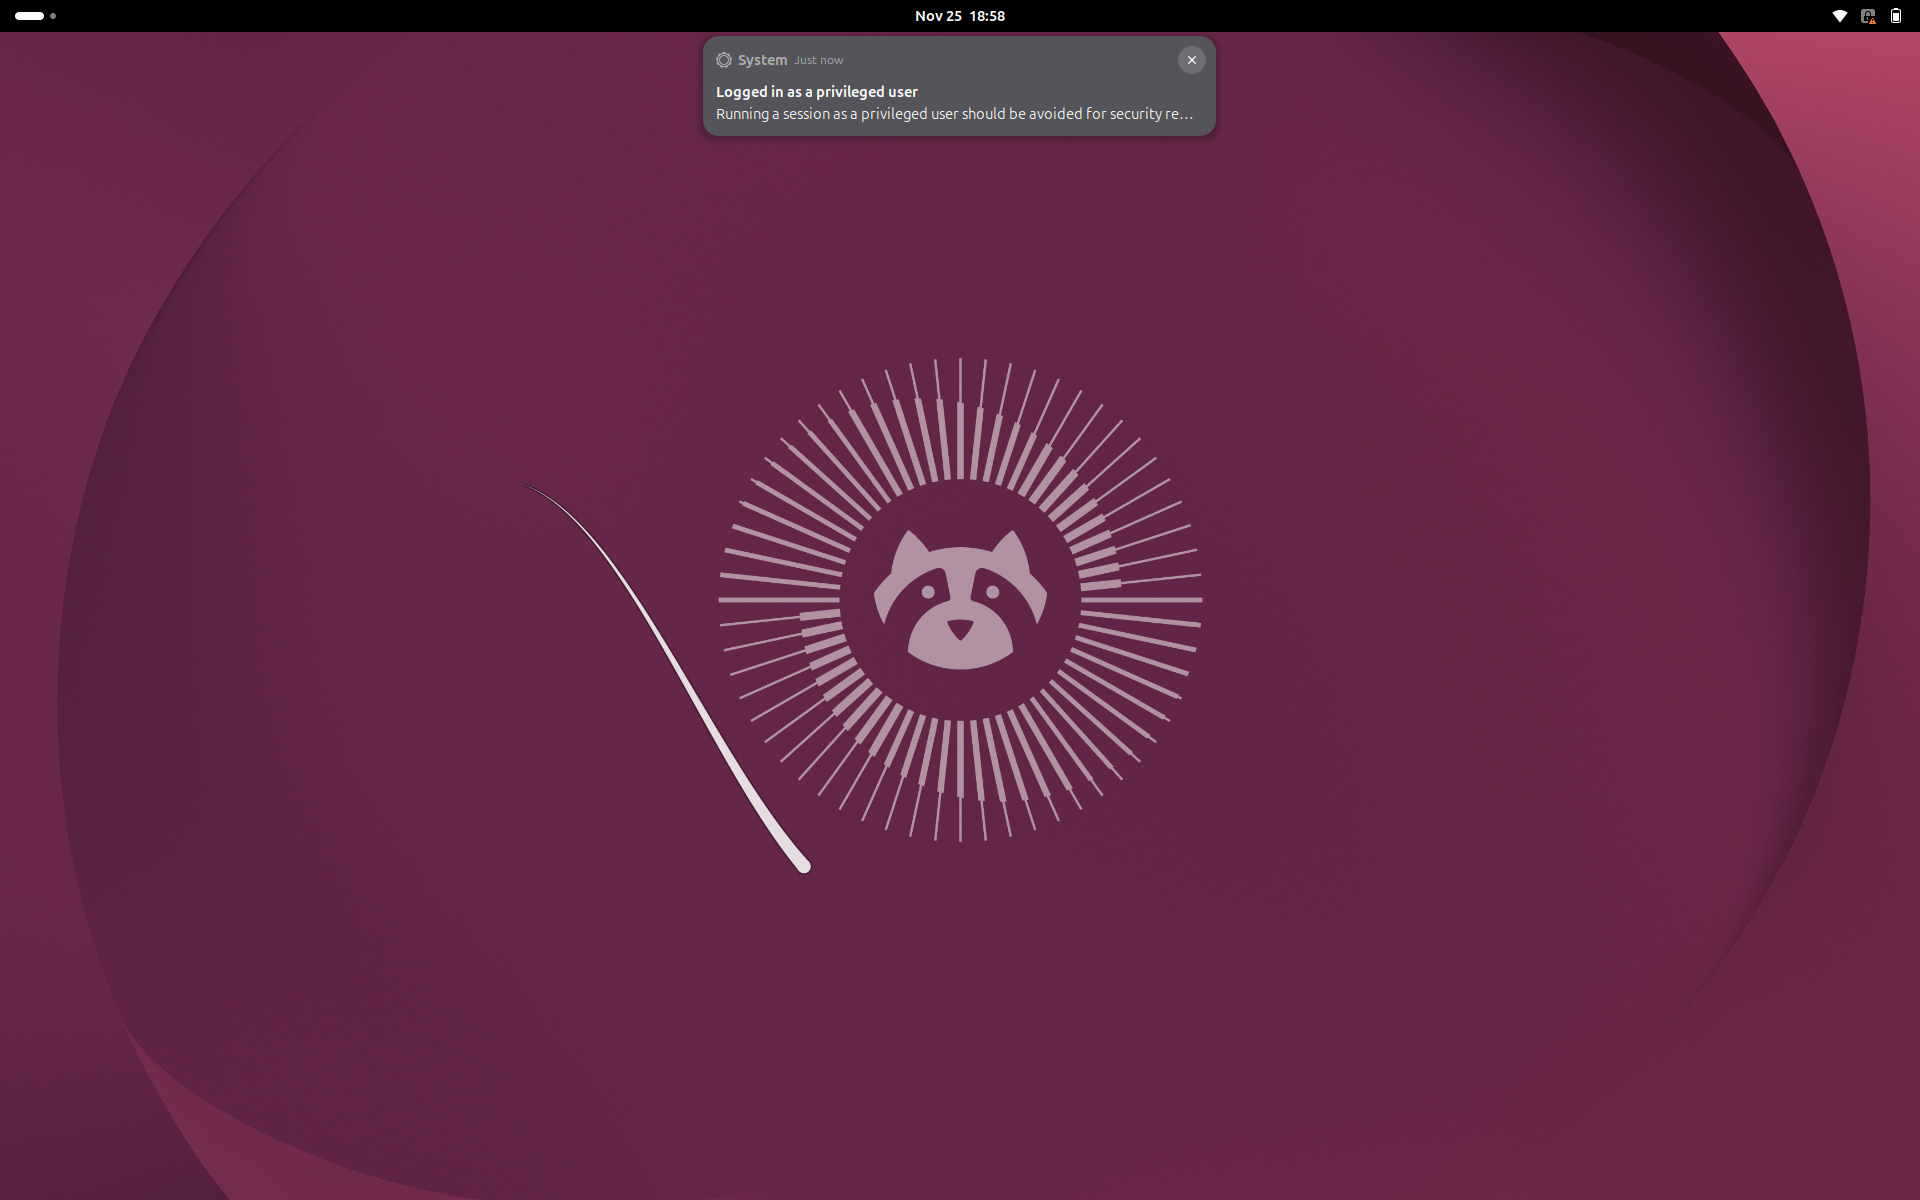
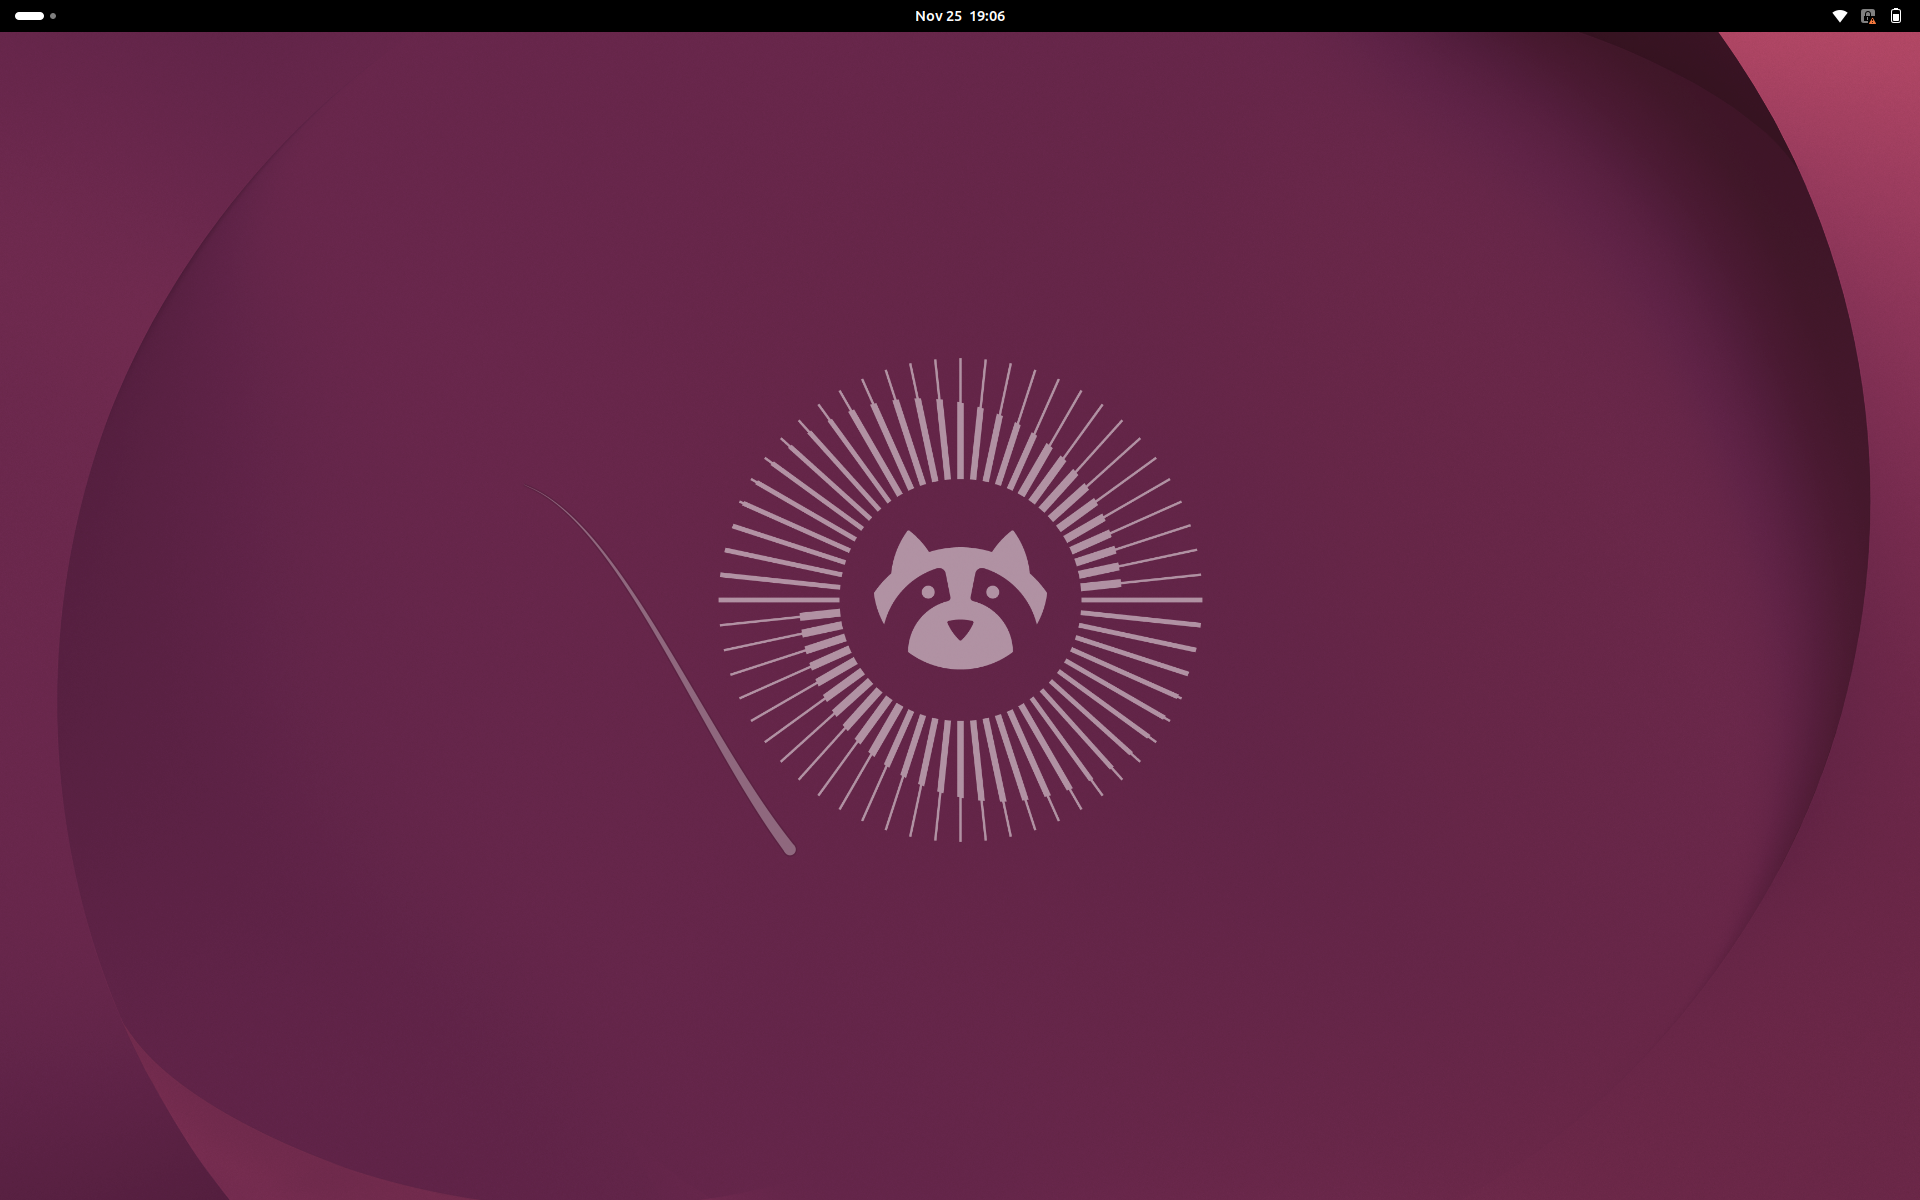
Fix keyboard dropping while dragging, strict bezel zones, softer brush
- Drag/resize no longer grabs the stage (it stole app focus so GNOME hid the
  OSK); closing is also blocked while dragging.
- get_point_begin_coords() returns garbage from GJS, so bezel zones now use
  the recorded touch-begin point and require the swipe to start at the edge.
- OSK opens only from the bezel gesture, not on every text-field touch.
- Fainter brush trail; strokes whose sequence is taken by a gesture end
  on their own instead of sticking on screen.

Changed region(s): [[0.3438, 0.0, 0.6562, 0.1233], [0.375, 0.6167, 0.4375, 0.74], [0.3438, 0.555, 0.375, 0.6167]]

diff --git a/touch-feedback@yandi/edges.js b/touch-feedback@yandi/edges.js
@@ -2,6 +2,8 @@ import Clutter from 'gi://Clutter';
 import Shell from 'gi://Shell';
 import St from 'gi://St';
 import * as Main from 'resource:///org/gnome/shell/ui/main.js';
+import * as KeyboardUI from 'resource:///org/gnome/shell/ui/keyboard.js';
+import {InjectionManager} from 'resource:///org/gnome/shell/extensions/extension.js';
 
 import {EDGES} from './config.js';
 
@@ -20,7 +22,7 @@ export class EdgeGestures {
         if (this._oskBottom)
             global.stage.remove_action(this._oskBottom);
 
-        // Catat titik awal sentuhan, cadangan kalau gesture nggak kasih koordinat awal.
+        // Catat titik awal sentuhan buat nentuin zona swipe.
         this._beginId = global.stage.connect('captured-event', (_a, event) => {
             if (event.type() === Clutter.EventType.TOUCH_BEGIN)
                 this._lastBegin = event.get_coords();
@@ -37,16 +39,34 @@ export class EdgeGestures {
             const kb = Main.keyboard.keyboardActor;
             if (kb) {
                 Main.layoutManager.keyboardIndex = Main.layoutManager.bottomIndex;
+                kb._tfAllowOpen = true;
                 kb.gestureActivate();
+                kb._tfAllowOpen = false;
             }
         });
         osk.connect('cancel', () => Main.keyboard.keyboardActor?.gestureCancel());
 
         this._loadDock();
         this._forceOskReady();
+        this._onlyOpenByGesture();
+    }
+
+    // Keyboard cuma boleh muncul lewat swipe bezel, bukan otomatis tiap
+    // kolom teks disentuh.
+    _onlyOpenByGesture() {
+        if (!EDGES.oskOnlyByGesture)
+            return;
+        this._injections = new InjectionManager();
+        this._injections.overrideMethod(KeyboardUI.Keyboard.prototype, 'open', original => function (...args) {
+            if (!this._tfAllowOpen && !this._keyboardVisible)
+                return;
+            original.apply(this, args);
+        });
     }
 
     disable() {
+        this._injections?.clear();
+        this._injections = null;
         this._stopOutsideWatch();
         this._restoreOsk();
         if (this._beginId) {
@@ -68,6 +88,8 @@ export class EdgeGestures {
         g.connect('may-recognize', () => {
             if ((modes & Main.actionMode) === 0)
                 return false;
+            if (!this._nearBottom(g))
+                return false;
             return this._inCenter(g) === center;
         });
         global.stage.add_action(g);
@@ -75,20 +97,29 @@ export class EdgeGestures {
         return g;
     }
 
-    _beginX(g) {
-        try {
-            const p = g.get_point_begin_coords(0);
-            const pt = Array.isArray(p) ? p.find(v => v && 'x' in v) : p;
-            if (pt && Number.isFinite(pt.x))
-                return pt.x;
-        } catch {}
-        return this._lastBegin?.[0] ?? null;
+    // Clutter.Gesture.get_point_begin_coords() ngasih angka ngaco dari GJS,
+    // jadi pakai titik awal sentuhan yang kita catat sendiri.
+    _begin(_g) {
+        return this._lastBegin ?? null;
+    }
+
+    _monitor() {
+        return Main.layoutManager.monitors[Main.layoutManager.bottomIndex] ??
+            Main.layoutManager.primaryMonitor;
+    }
+
+    // Sentuhan awal harus mepet tepi bawah layar.
+    _nearBottom(g) {
+        const b = this._begin(g);
+        const mon = this._monitor();
+        if (!b || !mon)
+            return true;
+        return b[1] >= mon.y + mon.height - EDGES.bottomEdge;
     }
 
     _inCenter(g) {
-        const x = this._beginX(g);
-        const mon = Main.layoutManager.monitors[Main.layoutManager.bottomIndex] ??
-            Main.layoutManager.primaryMonitor;
+        const x = this._begin(g)?.[0] ?? null;
+        const mon = this._monitor();
         if (x === null || !mon)
             return true;
         const rel = (x - mon.x) / mon.width;

diff --git a/touch-feedback@yandi/brush.js b/touch-feedback@yandi/brush.js
@@ -8,6 +8,9 @@ import * as Main from 'resource:///org/gnome/shell/ui/main.js';
 import {TAP, BRUSH, SOUND} from './config.js';
 
 const PAD = 4; // ruang ekstra di sekitar kuas
+// Kalau gesture GNOME (mis. swipe bezel) ngambil alih sentuhan, event lanjutan
+// & jari-diangkat nggak sampai ke kita. Sentuhan yang diam selama ini dianggap selesai.
+const STALE_MS = 400;
 
 // Satu goresan kuas: kanvas kecil seukuran goresan yang digambar ulang tiap frame.
 class Stroke {
@@ -23,7 +26,13 @@ class Stroke {
         this._timeline.start();
     }
 
+    get live() {
+        return this._live && !!this._area;
+    }
+
     add(x, y) {
+        if (!this._live || !this._area)
+            return;
         const now = GLib.get_monotonic_time() / 1000;
         const last = this._points.at(-1);
         if (last && Math.hypot(x - last.x, y - last.y) < 2) {
@@ -31,6 +40,10 @@ class Stroke {
             return;
         }
         this._points.push({x, y, t: now});
+    }
+
+    get lastUpdate() {
+        return this._points.at(-1)?.t ?? 0;
     }
 
     release() {
@@ -46,6 +59,8 @@ class Stroke {
 
     _tick() {
         const now = GLib.get_monotonic_time() / 1000;
+        if (this._live && now - this.lastUpdate > STALE_MS)
+            this._live = false;
         // Ekor: buang titik yang sudah lewat umurnya, sisakan yang terbaru kalau jari masih nempel.
         while (this._points.length > (this._live ? 1 : 0) && now - this._points[0].t > BRUSH.tail)
             this._points.shift();
@@ -170,9 +185,12 @@ export class TouchEffects {
     // Dipisah dari _onEvent biar bisa dites tanpa layar sentuh.
     handle(type, slot, x, y) {
         const T = Clutter.EventType;
+        const now = GLib.get_monotonic_time() / 1000;
         if (type === T.TOUCH_BEGIN) {
+            this._pruneStale(now);
             this._touches.get(slot)?.stroke?.release();
             this._touches.set(slot, {
+                last: now,
                 sx: x, sy: y, swipe: false, stroke: null,
                 onKeyboard: this._onKeyboard(x, y),
                 dot: this._spawnDot(x, y),
@@ -184,18 +202,25 @@ export class TouchEffects {
         if (!t)
             return;
 
+        t.last = now;
         if (type === T.TOUCH_UPDATE) {
             if (!t.swipe && Math.hypot(x - t.sx, y - t.sy) > TAP.swipeThreshold) {
                 t.swipe = true;
                 this._fadeOut(t.dot, 120);
                 t.dot = null;
-                if (!t.onKeyboard) {
-                    t.stroke = new Stroke(s => this._strokes?.delete(s));
-                    this._strokes.add(t.stroke);
-                    t.stroke.add(t.sx, t.sy);
-                }
             }
-            t.stroke?.add(x, y);
+            if (t.swipe && !t.onKeyboard) {
+                // Goresan baru kalau belum ada atau yang lama sudah selesai (jari sempat diam).
+                if (!t.stroke?.live) {
+                    const [px, py] = t.stroke ? [t.px, t.py] : [t.sx, t.sy];
+                    t.stroke = new Stroke(st => this._strokes?.delete(st));
+                    this._strokes.add(t.stroke);
+                    t.stroke.add(px, py);
+                }
+                t.stroke.add(x, y);
+            }
+            t.px = x;
+            t.py = y;
             return;
         }
 
@@ -209,6 +234,16 @@ export class TouchEffects {
         if (!t.swipe) {
             this._spawnRipple(x, y);
             this._play(this._tapSound);
+        }
+    }
+
+    _pruneStale(now) {
+        for (const [slot, t] of this._touches) {
+            if (now - t.last > STALE_MS) {
+                t.stroke?.release();
+                this._fadeOut(t.dot, 120);
+                this._touches.delete(slot);
+            }
         }
     }
 

diff --git a/touch-feedback@yandi/osk.js b/touch-feedback@yandi/osk.js
@@ -28,34 +28,36 @@ function saveState(state) {
     }
 }
 
-// Ikuti satu sentuhan/klik dari actor sampai dilepas.
+// Ikuti satu sentuhan/klik dari actor sampai dilepas. Sengaja tanpa
+// global.stage.grab(): grab bikin aplikasi kehilangan fokus ketik, lalu GNOME
+// langsung nurunin keyboard. Clutter sudah kasih implicit grab untuk
+// sentuhan & tombol mouse, jadi event lanjutan tetap ke actor ini.
 function attachDrag(actor, {start, move, end}) {
-    let grab = null;
     let origin = null;
-    const finish = () => {
-        grab?.dismiss();
-        grab = null;
-        origin = null;
-        end();
-    };
+    let seq = null;
     actor.connect('event', (_a, event) => {
         const T = Clutter.EventType;
         const type = event.type();
+        const isTouch = type === T.TOUCH_BEGIN || type === T.TOUCH_UPDATE ||
+            type === T.TOUCH_END || type === T.TOUCH_CANCEL;
+        const slot = isTouch ? event.get_event_sequence()?.get_slot() ?? 0 : -1;
         const [x, y] = event.get_coords();
         if (!origin && (type === T.TOUCH_BEGIN || type === T.BUTTON_PRESS)) {
             origin = [x, y];
-            grab = global.stage.grab(actor);
+            seq = slot;
             start();
             return Clutter.EVENT_STOP;
         }
-        if (!origin)
-            return Clutter.EVENT_PROPAGATE;
+        if (!origin || (isTouch && slot !== seq))
+            return origin ? Clutter.EVENT_STOP : Clutter.EVENT_PROPAGATE;
         if (type === T.TOUCH_UPDATE || type === T.MOTION) {
             move(x - origin[0], y - origin[1]);
             return Clutter.EVENT_STOP;
         }
         if (type === T.TOUCH_END || type === T.TOUCH_CANCEL || type === T.BUTTON_RELEASE) {
-            finish();
+            origin = null;
+            seq = null;
+            end();
             return Clutter.EVENT_STOP;
         }
         return Clutter.EVENT_PROPAGATE;
@@ -99,7 +101,16 @@ export class FloatingKeyboard {
             this.emit('visibility-changed');
         });
 
+        // Selama digeser/di-resize, keyboard nggak boleh ditutup.
+        this._injections.overrideMethod(proto, 'close', original => function (...args) {
+            if (this._tfDragging)
+                return;
+            original.apply(this, args);
+        });
+
         this._injections.overrideMethod(proto, '_animateHide', () => function () {
+            if (this._tfDragging)
+                return;
             this.ease({
                 translation_y: 0,
                 opacity: 0,
@@ -209,9 +220,11 @@ export class FloatingKeyboard {
         let start = null;
         const begin = actor => () => {
             start = this._geometry();
+            kb._tfDragging = true;
             actor.add_style_pseudo_class('active');
         };
         const done = actor => () => {
+            kb._tfDragging = false;
             actor.remove_style_pseudo_class('active');
             saveState(this._state ?? this._geometry());
         };

diff --git a/touch-feedback@yandi/config.js b/touch-feedback@yandi/config.js
@@ -11,10 +11,10 @@ export const TAP = {
 };
 
 export const BRUSH = {
-    width: 14,              // tebal kuas paling tebal (px)
+    width: 12,              // tebal kuas paling tebal (px)
     tail: 260,              // ms: seberapa panjang ekor kuas
-    color: [1, 1, 1, 0.85],         // RGBA 0..1
-    shadow: [0, 0, 0, 0.30],        // garis tepi biar kelihatan di latar terang
+    color: [1, 1, 1, 0.32],         // RGBA 0..1, alpha kecil = samar
+    shadow: [0, 0, 0, 0.10],        // garis tepi tipis biar tetap kelihatan di latar terang
 };
 
 export const SOUND = {
@@ -26,6 +26,8 @@ export const SOUND = {
 // Lebar zona tengah sebagai fraksi lebar layar.
 export const EDGES = {
     centerZone: 0.4,
+    bottomEdge: 16,         // px dari tepi bawah tempat swipe harus dimulai
+    oskOnlyByGesture: true, // false = keyboard juga muncul otomatis saat kolom teks disentuh
 };
 
 export const OSK = {

diff --git a/README.md b/README.md
@@ -3,8 +3,8 @@
 Extension GNOME Shell (48–50, Wayland) buat laptop layar sentuh, biar rasanya lebih kayak Windows.
 
 - **Tap**: titik muncul waktu jari nempel, lalu ripple + bunyi klik pelan waktu jari diangkat.
-- **Swipe**: jejak kuas yang ngikutin jari, tebal di ujung jari dan menipis ke ekor. Swipe nggak bunyi.
-- **Swipe dari bezel bawah**
+- **Swipe**: jejak kuas samar yang ngikutin jari, tebal di ujung jari dan menipis ke ekor. Swipe nggak bunyi.
+- **Swipe dari bezel bawah** (harus mulai mepet tepi bawah layar)
   - bagian **tengah** → dock Ubuntu muncul (tap di luar dock buat nyembunyiin lagi)
   - bagian **kiri / kanan** → keyboard layar naik ngikutin jari
 - **Keyboard layar mengambang** bertema Ubuntu modern (Yaru gelap + aksen oranye):
@@ -15,7 +15,8 @@ Extension GNOME Shell (48–50, Wayland) buat laptop layar sentuh, biar rasanya 
 Keyboard-nya tetap keyboard bawaan GNOME (layout, emoji, dan saran kata tetap jalan). Extension ini cuma
 ngubah posisi, animasi, tema, dan cara munculnya. Laptop non-convertible nggak pernah masuk "mode tablet",
 jadi extension ini juga bikin keyboard layar selalu siap begitu input terakhir datang dari layar sentuh.
-Efek sampingnya: tap kolom teks pakai jari bisa langsung munculin keyboard.
+Keyboard cuma muncul lewat swipe bezel, bukan otomatis waktu kolom teks disentuh
+(atur lewat `EDGES.oskOnlyByGesture` di `config.js`).
 
 ![Keyboard mengambang](docs/keyboard.png)
 ![Jejak kuas](docs/brush.png)
@@ -31,8 +32,8 @@ Habis itu logout lalu login lagi, karena GNOME di Wayland nggak bisa reload exte
 
 ## Atur
 
-Semua angka (warna, ukuran ripple, tebal kuas, lebar zona tengah, ukuran awal keyboard, durasi animasi,
-suara on/off) ada di [`touch-feedback@yandi/config.js`](touch-feedback@yandi/config.js).
+Semua angka (warna, ukuran ripple, tebal & transparansi kuas, lebar zona tengah, jarak dari tepi bawah,
+ukuran awal keyboard, durasi animasi, suara on/off) ada di [`touch-feedback@yandi/config.js`](touch-feedback@yandi/config.js).
 Tema keyboard ada di [`touch-feedback@yandi/stylesheet.css`](touch-feedback@yandi/stylesheet.css).
 Habis ubah, jalankan `./install.sh` lagi lalu logout-login.
 
